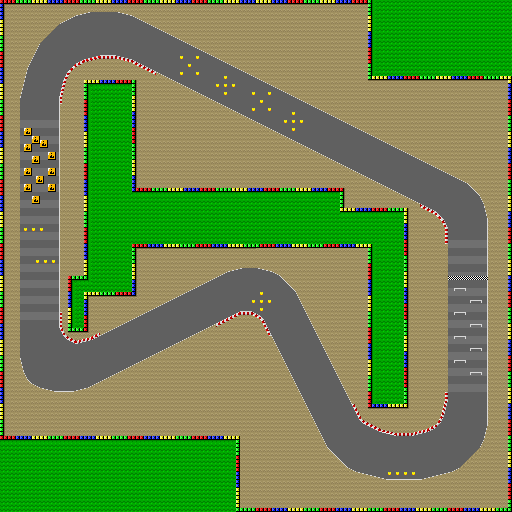
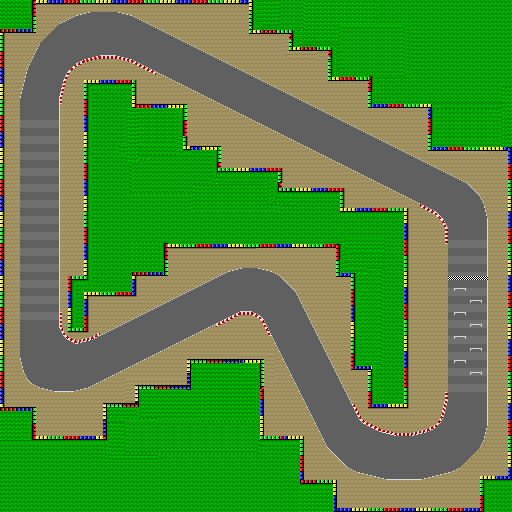
Finished

diff --git a/mariokart-0.2.js b/mariokart-0.2.js
@@ -1,5 +1,11 @@
-////Alunos: Gabriel Nicolau, Gabriell Tavares e Edson 
-
+// ANOTS:
+// O oPlayer é o jogador, e tem um array de todos os jogadores, que é o aPlayers
+//Para saber a posição basta fazer oPlayer.x ou oPlayer.y
+//Omap é o objeto que tem o mapa
+//oPlayer.rotation dá o angulo do jogador em graus. Acompanha o eixo y (para baixo), dai para baixo é 0 graus e depois segue o circulo trigonometrico
+//oBox é a caixa dos valores que o carrinho não pode ir, ele pega o vetor collision
+//
+//O oPlayer é o que vai ser printado na tela, então ele fica na ultima passagem
 const imgHeight = 374;
 const imgWidth = 198;
 var cont = 0;
@@ -12,40 +18,67 @@ function MarioKart() {
     //Passa aqui só uma vez
     var oMaps = {
         "map1": {
-            "texture": "media/map_2.png",
-            "width": 198,
-            "height": 374,
+            "texture": "media/map_1.png",
+            "width": 512,
+            "height": 512,
             "collision": [
-                [72, 60, 59, 241]
-            ],
-            "sand":[
-                [0, 0, 198, 10],
-                [0, 10, 14, 354],
-                [0, 364, 198, 10],
-                [189, 10, 9, 354],
-                [56, 51, 92, 272]
-            ],
-            "checkpoints":[
-            	[128, 62, 70],
-            	[0, 62, 74],
-            	[0, 299, 74],
-            	[128, 299, 79],
-            	[128, 144, 70],
-            	[0, 144, 74],
-            	[0, 244, 75]
+                [84, 80, 49, 212],
+                [68, 276, 20, 56],
+                [290, 3, 220, 47],
+                [132, 146, 98, 42],
+                [133, 105, 55, 46],
+                [220, 170, 62, 22],
+                [136, 188, 208, 60],
+                [0, 0, 36, 33],
+                [2, 408, 36, 33],
+                [250, 3, 43, 31],
+                [336, 244, 35, 32],
+                [132, 244, 36, 32],
+                [352, 274, 24 ,96],
+                [330, 48, 43, 33],
+                [136, 386, 55, 53],
+                [344, 208, 64, 40],
+                [368, 248, 40, 160],
+                [370, 49, 140, 59],
+                [430, 105, 80, 45],
+                [105, 404, 33, 35],
+                [4, 436, 236, 72],
+                [186, 358, 78, 78],
+                [262, 438, 42, 74],
+                [480, 476, 32, 36],
+                [300, 480, 35, 30]
             ],
             "startpositions": [{
-                x: 167,
-                y: 198
+                x: 460,
+                y: 292
             }, {
-                x: 167 - 18,
-                y: 196
+                x: 476 - 18,
+                y: 356 - 18
             }, {
-                x: 167,
-                y: 210
+                x: 476,
+                y: 356 - 24
             }],
+            "sand":[
+            ],
+            "checkpoints":[
+            ],
             "startrotation": 180,
-            "aipoints": [167,257]
+            "aipoints": [
+                [467, 273],
+                [459, 208],
+                [317, 128],
+                [160, 50],
+                [64, 53],
+                [44, 111],
+                [38, 272],
+                [50, 351],
+                [106, 349],
+                [215, 300],
+                [278, 305],
+                [337, 417],
+                [405, 451],
+                [462, 414]
+            ]
         },
         "map2": {
             "texture": "media/map_2.png",
@@ -409,32 +442,6 @@ function MarioKart() {
 
         //FUNÇÃO DESENHAR
         this.draw = function(iX, iY, fScale) {
-
-            //Aqui passa várias vezes
-            // console.log('Up: ' + oPlayer.distanceUp());
-            // console.log('Bottom: ' + oPlayer.distanceBottom());
-            // console.log('Left: ' + oPlayer.distanceLeft());
-            // console.log('Right: ' + oPlayer.distanceRight());
-            // if (oPlayer.hit()) {
-                // oPlayer.think();
-                // console.log('HIIIIIIIIIIIIIIIIIIIIIIIIIIIIIIIIIIIIIIIIIIIIIIIIIIIIIIIIIIIT!!!');
-                //Esse reset nao esta funcionando
-                // resetGame();
-            // }
-            // for (let j=0; j<aKarts.length; j++) {
-            //     if (aKarts[j].hit(j)) {
-            //         console.log('O j = ', j, ' hitou ein');
-            //     }
-            // }
-
-            //Debug
-            // cont++
-            // console.log(oPlayer.x, ' ', oPlayer.y);
-            // if (oPlayer.hit()) {
-            //     console.log('eu hitei ', cont);
-            //     console.log(oPlayer.distanceUp(), ' ', oPlayer.distanceRight(), ' ', oPlayer.distanceBottom(), ' ', oPlayer.distanceLeft());
-            // }
-
             //=====================================
             var bDraw = true;
             if (iY > iHeight * iScreenScale || iY < 6 * iScreenScale) {
@@ -542,9 +549,9 @@ function MarioKart() {
             aKarts[i].buttonUp();
             
             aKarts[i].think(oMap);
-            if (aKarts[i].hit(oMap)) {
+            /*if (canMoveTo(aKarts[i].x,aKarts[i].y) == false) {
                 aKarts[i].isFreezed = 1;
-            }
+            }*/
             if(aKarts[i].isFreezed){
                 aKarts[i].freeze(oMap);
             }
@@ -727,6 +734,7 @@ function MarioKart() {
             oKart.y = fNewPosY;
         }
         else {
+            if(oKart != aKarts[0]) oKart.isFreezed = 1;
             oKart.speed *= -1;
         }
         // decrease speed
@@ -806,7 +814,7 @@ function MarioKart() {
 
             distanceBottom: function(oMap) {
                 //365 é o tamanho na vertical
-                let minDistance = 365 - this.y;
+                let minDistance = oMap.height - 9 - this.y;
                 let x = this.x;
                 let y = this.y;
                 for (var i = 0; i < oMap.collision.length; i++) {
@@ -851,7 +859,7 @@ function MarioKart() {
             distanceRight: function(oMap) {
                 let x = this.x;
                 let y = this.y;
-                let minDistance = 188 - x;
+                let minDistance = oMap.width - 10 - x;
                 for (var i = 0; i < oMap.collision.length; i++) {
                     var oBox = oMap.collision[i];
                     //O jogador precisa estar à direita ou à esquerda da caixa para detectar as linhas, isso evita detecções erradas
@@ -865,18 +873,6 @@ function MarioKart() {
                     }
                 }
                 return minDistance;
-            },
-
-            hit: function(oMap) {
-                let distance = 3;
-                if (this.distanceUp(oMap) < distance || this.distanceBottom(oMap) < distance || 
-                    this.distanceLeft(oMap) < distance || this.distanceRight(oMap) < distance ||
-                    this.x < 9 || this.x > imgWidth-distance || 
-                    this.y < 9 || this.y > imgHeight-distance) { 
-                    return true;
-                } else {
-                    return false;
-                }
             },
 
             // Acceleration function

diff --git a/ga.js b/ga.js
@@ -1,5 +1,3 @@
-//Alunos: Gabriel Nicolau, Gabriell Tavares e Edson 
-
 const numberOfMarios = 500;
 const mutationRate = 0.5;
 const mutation = 0.05;
@@ -297,18 +295,6 @@ for(i=0; i<numberOfMarios; i++) {
                 }
             }
             return minDistance;
-        },
-
-        hit: function(oMap) {
-            let distance = 3;
-            if (this.distanceUp(oMap) < distance || this.distanceBottom(oMap) < distance || 
-                this.distanceLeft(oMap) < distance || this.distanceRight(oMap) < distance ||
-                this.x < 9 || this.x > imgWidth-distance || 
-                this.y < 9 || this.y > imgHeight-distance) { 
-                return true;
-            } else {
-                return false;
-            }
         },
 
         // Acceleration function

diff --git a/README.md b/README.md
@@ -9,5 +9,3 @@ You'll control an admin Kart and the others will start to evolve automatically
 We just created the AI, the game itself was created by Jacob Seidelin(http://blog.nihilogic.dk/2008/05/javascript-super-mario-kart.html)
 
 Presentation video (Portuguese - Made in São Paulo University): https://www.youtube.com/watch?v=yb7EKx3WvcQ&feature=youtu.be
-
-Students: Gabriel Nicolau, Gabriell Tavares and Edson 
